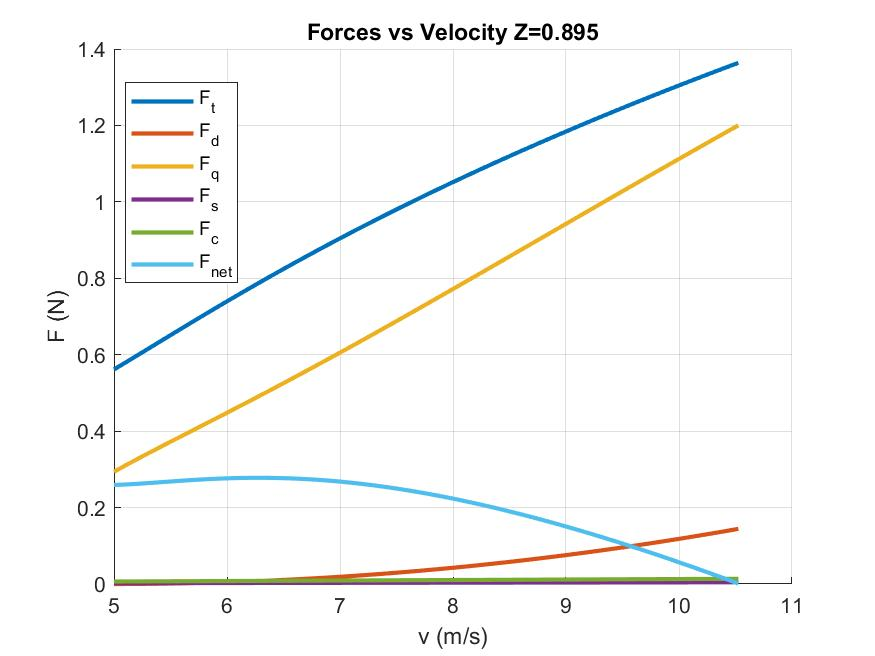
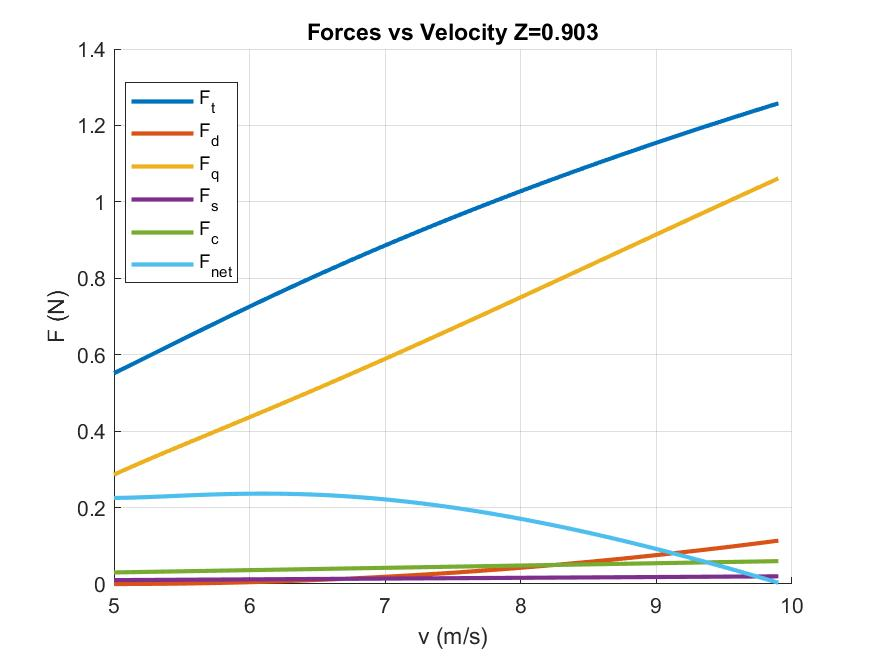
New Wheel Diameter With Old Shafts

diff --git a/Vehicle.m b/Vehicle.m
@@ -34,12 +34,12 @@ classdef Vehicle
 			self.mul_q = 2/(n*self.Z*self.d);
 			% https://www.engineeringtoolbox.com/dynamic-viscosity-motor-oils-d_1759.html
 			u = 0.63;
-			s_r = 3e-3/2;
-			s_c = 0.5e-3;
+            s_r = 6.35e-3/2;
+			s_c = 1e-3;
 			s_l = 10e-3;
 			self.mul_s = 4*pi*u*s_r^3*s_l/s_c*4/self.d;
-			c_r = 3e-3/2;
-			c_c = 0.5e-3;
+			c_r = 6.35e-3/2;
+			c_c = 1e-3;
 			c_l = 87.5e-3;
 			self.mul_c = 2*pi*u*c_r^3*c_l/c_c*self.mul_q;
 		end
